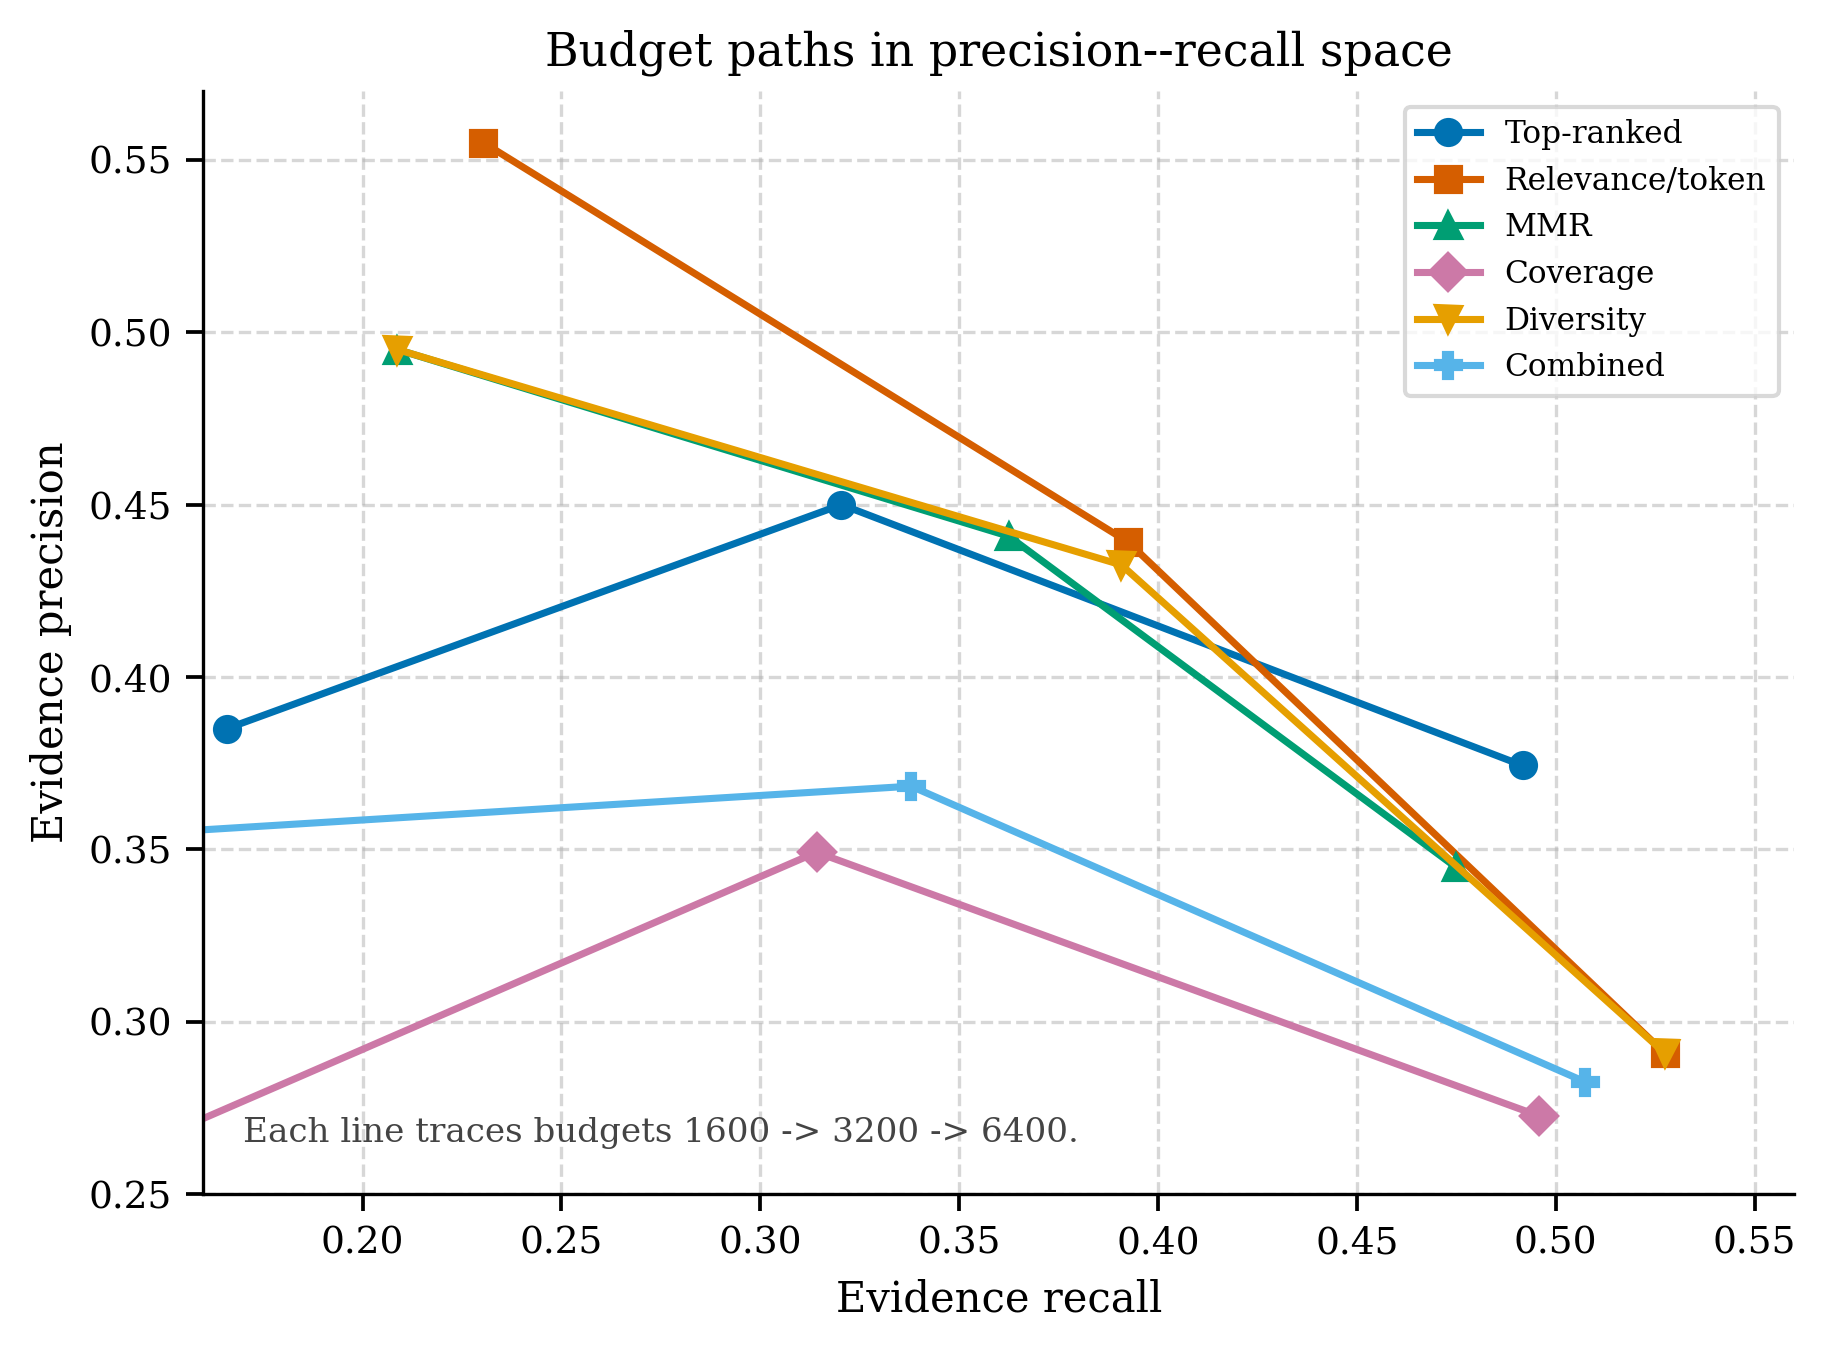
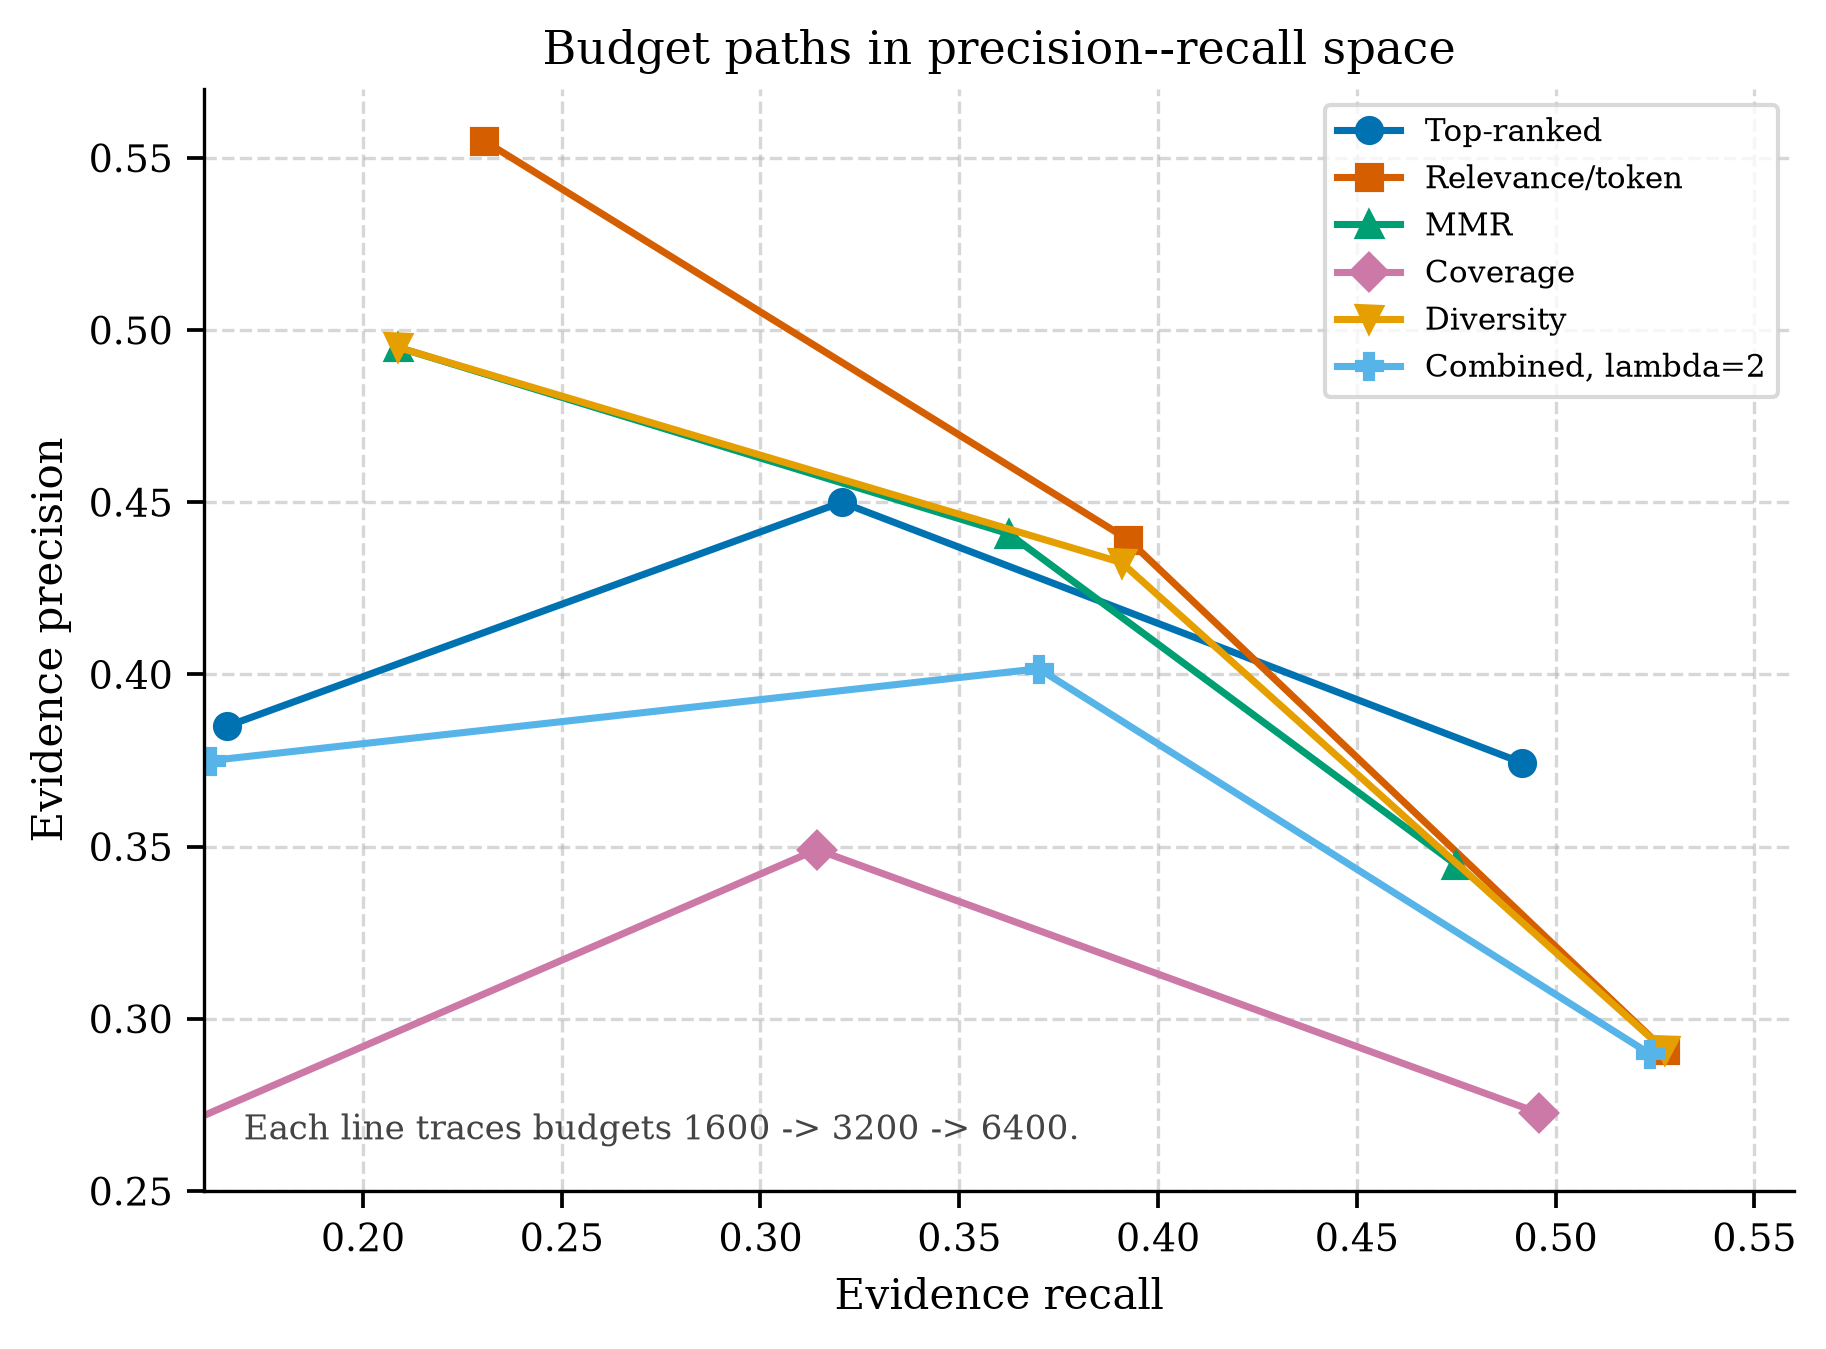
Update proj.

diff --git a/proj/scripts/plot_report_figures.py b/proj/scripts/plot_report_figures.py
@@ -14,7 +14,7 @@ from matplotlib.patches import FancyArrowPatch, FancyBboxPatch
 
 
 RUN_DIR = Path("proj/out/main/multihop_q200_docbudget_s13")
-OUT_DIR = Path("proj/report/figures/multihop_q200_docbudget_s13_2")
+OUT_DIR = Path("proj/report/figures/multihop_q200_docbudget_s13")
 ARTIFACT_DIR = OUT_DIR
 AGGREGATE_CSV = RUN_DIR / "aggregate_metrics.csv"
 OPTIMAL_CSV = RUN_DIR / "optimal_checks.csv"
@@ -25,7 +25,7 @@ METHODS = (
     "mmr",
     "submodular_coverage",
     "submodular_diversity",
-    "submodular_combined",
+    "submodular_combined_lambda_2",
 )
 
 SHORT_LABELS = {
@@ -34,7 +34,7 @@ SHORT_LABELS = {
     "mmr": "MMR",
     "submodular_coverage": "Coverage",
     "submodular_diversity": "Diversity",
-    "submodular_combined": "Combined",
+    "submodular_combined_lambda_2": "Combined, lambda=2",
 }
 
 COLORS = {
@@ -43,7 +43,7 @@ COLORS = {
     "mmr": "#009E73",
     "submodular_coverage": "#CC79A7",
     "submodular_diversity": "#E69F00",
-    "submodular_combined": "#56B4E9",
+    "submodular_combined_lambda_2": "#56B4E9",
 }
 
 MARKERS = {
@@ -52,7 +52,7 @@ MARKERS = {
     "mmr": "^",
     "submodular_coverage": "D",
     "submodular_diversity": "v",
-    "submodular_combined": "P",
+    "submodular_combined_lambda_2": "P",
 }
 
 
@@ -119,12 +119,9 @@ def style_axis(ax) -> None:
 def save_figure(fig, stem: str) -> None:
     OUT_DIR.mkdir(parents=True, exist_ok=True)
     png_path = OUT_DIR / f"{stem}.png"
-    pdf_path = OUT_DIR / f"{stem}.pdf"
     fig.savefig(png_path, bbox_inches="tight")
-    fig.savefig(pdf_path, bbox_inches="tight")
     plt.close(fig)
     print(f"Wrote {png_path}")
-    print(f"Wrote {pdf_path}")
 
 
 def aggregate_subset(
@@ -140,62 +137,6 @@ def aggregate_subset(
     if budget is not None:
         filtered = [row for row in filtered if as_int(row, "budget") == budget]
     return filtered
-
-
-def plot_method_overview() -> None:
-    fig, ax = plt.subplots(figsize=(8.2, 2.9), dpi=300)
-    ax.set_axis_off()
-
-    boxes = [
-        (0.02, 0.58, 0.18, 0.28, "Retrieved\ncandidates", "$C={d_1,\\ldots,d_n}$"),
-        (0.28, 0.58, 0.18, 0.28, "Features", "$r_i,\\ c_i,\\ w_{ij}$"),
-        (0.54, 0.58, 0.20, 0.28, "Budgeted greedy", "$\\max F(S)$\n$s.t.\\ \\sum c_i\\leq B$"),
-        (0.80, 0.58, 0.18, 0.28, "Selected context", "$S\\subseteq C$"),
-        (0.54, 0.10, 0.20, 0.24, "Gold evidence", "MultiHop-RAG\nlabels"),
-        (0.80, 0.10, 0.18, 0.24, "Evaluation", "Recall, precision,\n$F_1$, redundancy"),
-    ]
-
-    for x, y, width, height, title, detail in boxes:
-        patch = FancyBboxPatch(
-            (x, y),
-            width,
-            height,
-            boxstyle="round,pad=0.012,rounding_size=0.015",
-            linewidth=1.0,
-            edgecolor="#4a4a4a",
-            facecolor="#f7f7f7",
-        )
-        ax.add_patch(patch)
-        ax.text(x + width / 2, y + height * 0.66, title, ha="center", va="center", fontsize=10)
-        ax.text(
-            x + width / 2,
-            y + height * 0.32,
-            detail,
-            ha="center",
-            va="center",
-            fontsize=8.5,
-            color="#333333",
-        )
-
-    arrows = [
-        ((0.205, 0.72), (0.275, 0.72)),
-        ((0.465, 0.72), (0.535, 0.72)),
-        ((0.745, 0.72), (0.795, 0.72)),
-        ((0.89, 0.57), (0.89, 0.37)),
-        ((0.745, 0.22), (0.795, 0.22)),
-    ]
-    for start, end in arrows:
-        arrow = FancyArrowPatch(
-            start,
-            end,
-            arrowstyle="-|>",
-            mutation_scale=12,
-            linewidth=1.1,
-            color="#444444",
-        )
-        ax.add_patch(arrow)
-
-    save_figure(fig, "method_overview")
 
 
 def plot_budget_sensitivity(aggregate_rows: list[dict[str, str]]) -> None:
@@ -280,93 +221,6 @@ def plot_precision_recall(aggregate_rows: list[dict[str, str]]) -> None:
     )
     fig.tight_layout()
     save_figure(fig, "precision_recall_tradeoff")
-
-
-def plot_scalability_optimality(
-    aggregate_rows: list[dict[str, str]],
-    optimal_rows: list[dict[str, str]],
-) -> None:
-    fig, axes = plt.subplots(1, 2, figsize=(8.2, 3.5), dpi=300)
-    budget = 6400
-    runtime_methods = ("top_ranked", "relevance_ratio", "mmr", "submodular_combined")
-
-    for method in runtime_methods:
-        rows = aggregate_subset(aggregate_rows, method=method, budget=budget)
-        rows.sort(key=lambda row: as_int(row, "top_n"))
-        axes[0].plot(
-            [as_int(row, "top_n") for row in rows],
-            [as_float(row, "runtime_units_mean") for row in rows],
-            marker=MARKERS[method],
-            linewidth=1.8,
-            markersize=5.5,
-            color=COLORS[method],
-            label=SHORT_LABELS[method],
-        )
-    axes[0].set_title("(a) Runtime proxy")
-    axes[0].set_xlabel(r"Candidate set size $N$")
-    axes[0].set_ylabel(r"Runtime proxy units (log scale)")
-    axes[0].set_xticks([10, 20, 40])
-    axes[0].set_yscale("log")
-    style_axis(axes[0])
-    axes[0].legend(
-        loc="upper left",
-        fontsize=7.3,
-        frameon=True,
-        shadow=False,
-        facecolor="white",
-        edgecolor="#d0d0d0",
-    )
-
-    objectives = ("coverage", "diversity", "combined")
-    labels = ("Coverage", "Diversity", "Combined")
-    data = []
-    for objective in objectives:
-        values = [
-            as_float(row, "approx_ratio")
-            for row in optimal_rows
-            if row["status"] == "executed"
-            and row["selector"] == "budgeted_greedy"
-            and row["objective"] == objective
-            and row["approx_ratio"]
-        ]
-        data.append(values)
-
-    box = axes[1].boxplot(
-        data,
-        tick_labels=labels,
-        patch_artist=True,
-        widths=0.55,
-        showmeans=True,
-        meanprops={
-            "marker": "o",
-            "markerfacecolor": "#333333",
-            "markeredgecolor": "#333333",
-            "markersize": 4,
-        },
-        medianprops={"color": "#111111", "linewidth": 1.3},
-        boxprops={"linewidth": 1.0},
-        whiskerprops={"linewidth": 1.0},
-        capprops={"linewidth": 1.0},
-        flierprops={
-            "marker": ".",
-            "markerfacecolor": "#666666",
-            "markeredgecolor": "#666666",
-            "alpha": 0.30,
-        },
-    )
-    for patch, color in zip(box["boxes"], ("#CC79A7", "#E69F00", "#56B4E9"), strict=True):
-        patch.set_facecolor(color)
-        patch.set_alpha(0.65)
-
-    axes[1].axhline(1.0, color="#444444", linestyle="--", linewidth=1.0, alpha=0.8)
-    axes[1].set_title("(b) Greedy vs. exact optimum")
-    axes[1].set_xlabel(r"Objective")
-    axes[1].set_ylabel(r"$F(S_{\mathrm{greedy}})/F(S^*)$")
-    axes[1].set_ylim(0.0, 1.08)
-    style_axis(axes[1])
-
-    fig.tight_layout(w_pad=2.0)
-    save_figure(fig, "scalability_optimality")
 
 
 def plot_scalability_optimality_from_artifacts() -> None:
@@ -484,7 +338,9 @@ def plot_scalability_optimality_from_artifacts() -> None:
 
 def main() -> None:
     configure_matplotlib()
-    plot_method_overview()
+    aggregate_rows = read_csv(AGGREGATE_CSV)
+    plot_budget_sensitivity(aggregate_rows)
+    plot_precision_recall(aggregate_rows)
     plot_scalability_optimality_from_artifacts()
 
 

diff --git a/proj/src/selectors.py b/proj/src/selectors.py
@@ -1,6 +1,7 @@
 from __future__ import annotations
 
 from dataclasses import dataclass
+import heapq
 import random
 
 from .data import DataValidationError
@@ -13,6 +14,7 @@ class SelectionResult:
     indices: tuple[int, ...]
     total_cost: int
     objective_value: float | None = None
+    eval_count: int | None = None
 
 
 def budgeted_greedy(features: FeatureSet, objective: Objective, budget: int) -> SelectionResult:
@@ -49,6 +51,67 @@ def budgeted_greedy(features: FeatureSet, objective: Objective, budget: int) -> 
             return singleton
         if singleton.objective_value == greedy.objective_value and (singleton.total_cost, singleton.indices) < (greedy.total_cost, greedy.indices):
             return singleton
+    return greedy
+
+
+def lazy_budgeted_greedy(features: FeatureSet, objective: Objective, budget: int) -> SelectionResult:
+    _validate_budget(budget)
+    _validate_objective(objective)
+    selected: list[int] = []
+    total_cost = 0
+    eval_count = 0
+    queue: list[tuple[float, float, int, str, int, int]] = []
+
+    for item in range(len(features.doc_ids)):
+        if features.costs[item] <= budget:
+            gain = objective.marginal_gain(selected, item)
+            eval_count += 1
+            heapq.heappush(
+                queue,
+                (
+                    -(gain / features.costs[item]),
+                    -gain,
+                    features.costs[item],
+                    features.doc_ids[item],
+                    item,
+                    0,
+                ),
+            )
+
+    while queue:
+        neg_density, neg_gain, cost, doc_id, item, version = heapq.heappop(queue)
+        if total_cost + cost > budget:
+            continue
+
+        if version == len(selected):
+            gain = -neg_gain
+            if gain <= 0:
+                break
+            selected.append(item)
+            total_cost += cost
+            continue
+
+        gain = objective.marginal_gain(selected, item)
+        eval_count += 1
+        heapq.heappush(
+            queue,
+            (
+                -(gain / features.costs[item]),
+                -gain,
+                cost,
+                doc_id,
+                item,
+                len(selected),
+            ),
+        )
+
+    greedy = SelectionResult(tuple(selected), total_cost, objective.value(selected), eval_count)
+    singleton = _best_feasible_singleton(features, objective, budget)
+    if singleton.objective_value is not None and greedy.objective_value is not None:
+        if singleton.objective_value > greedy.objective_value:
+            return SelectionResult(singleton.indices, singleton.total_cost, singleton.objective_value, eval_count)
+        if singleton.objective_value == greedy.objective_value and (singleton.total_cost, singleton.indices) < (greedy.total_cost, greedy.indices):
+            return SelectionResult(singleton.indices, singleton.total_cost, singleton.objective_value, eval_count)
     return greedy
 
 

diff --git a/proj/src/experiments.py b/proj/src/experiments.py
@@ -26,12 +26,12 @@ from .metrics import evaluate_selection
 from .objectives import Objective, combined_objective, coverage_objective, diversity_objective
 from .paths import has_symlink_parent
 from .retrieval import retrieve_top_n
-from .selectors import budgeted_greedy, exhaustive_optimal, mmr, relevance_ratio, seeded_random, top_ranked
+from .selectors import lazy_budgeted_greedy, budgeted_greedy, exhaustive_optimal, mmr, relevance_ratio, seeded_random, top_ranked
 
 
 DEFAULT_BUDGET = 18
 DEFAULT_TOP_N = 5
-DEFAULT_SELECTORS = ("top_ranked", "relevance_ratio", "random_seeded", "mmr", "budgeted_greedy")
+DEFAULT_SELECTORS = ("top_ranked", "relevance_ratio", "random_seeded", "mmr", "budgeted_greedy", "lazy_budgeted_greedy")
 DEFAULT_OBJECTIVES = ("coverage", "diversity", "combined")
 BASELINE_OBJECTIVE = "none"
 BASELINE_LAMBDA = 0.0
@@ -618,11 +618,14 @@ def _candidate_rows(candidates_by_top_n: dict[int, dict[str, list[Candidate]]]) 
 
 def _method_specs(config: ExperimentConfig):
     for selector in config.selectors:
-        if selector == "budgeted_greedy":
+        if selector in {"budgeted_greedy", "lazy_budgeted_greedy"}:
             for objective in config.objectives:
                 lambda_values = config.combined_lambdas if objective == "combined" else (BASELINE_LAMBDA,)
                 for lambda_value in lambda_values:
-                    yield selector, objective, lambda_value, _submodular_label(objective, lambda_value, len(lambda_values))
+                    label = _submodular_label(objective, lambda_value, len(lambda_values))
+                    if selector == "lazy_budgeted_greedy":
+                        label = f"lazy_{label}"
+                    yield selector, objective, lambda_value, label
         else:
             yield selector, BASELINE_OBJECTIVE, BASELINE_LAMBDA, selector
 
@@ -651,6 +654,8 @@ def _run_selector(
         result = mmr(features, budget, lambda_value=config.mmr_lambda)
     elif selector == "budgeted_greedy":
         result = budgeted_greedy(features, _objective_for(features, objective_name, lambda_value), budget)
+    elif selector == "lazy_budgeted_greedy":
+        result = lazy_budgeted_greedy(features, _objective_for(features, objective_name, lambda_value), budget)
     else:
         raise DataValidationError(f"unknown selector: {selector}")
     runtime_units = _runtime_units(selector, features, result)
@@ -663,6 +668,8 @@ def _query_seed(seed: int, query_id: str) -> int:
 
 
 def _runtime_units(selector: str, features: FeatureSet, result) -> int:
+    if selector == "lazy_budgeted_greedy":
+        return result.eval_count if result.eval_count is not None else 0
     n = len(features.doc_ids)
     selected = max(1, len(result.indices))
     if selector == "top_ranked":